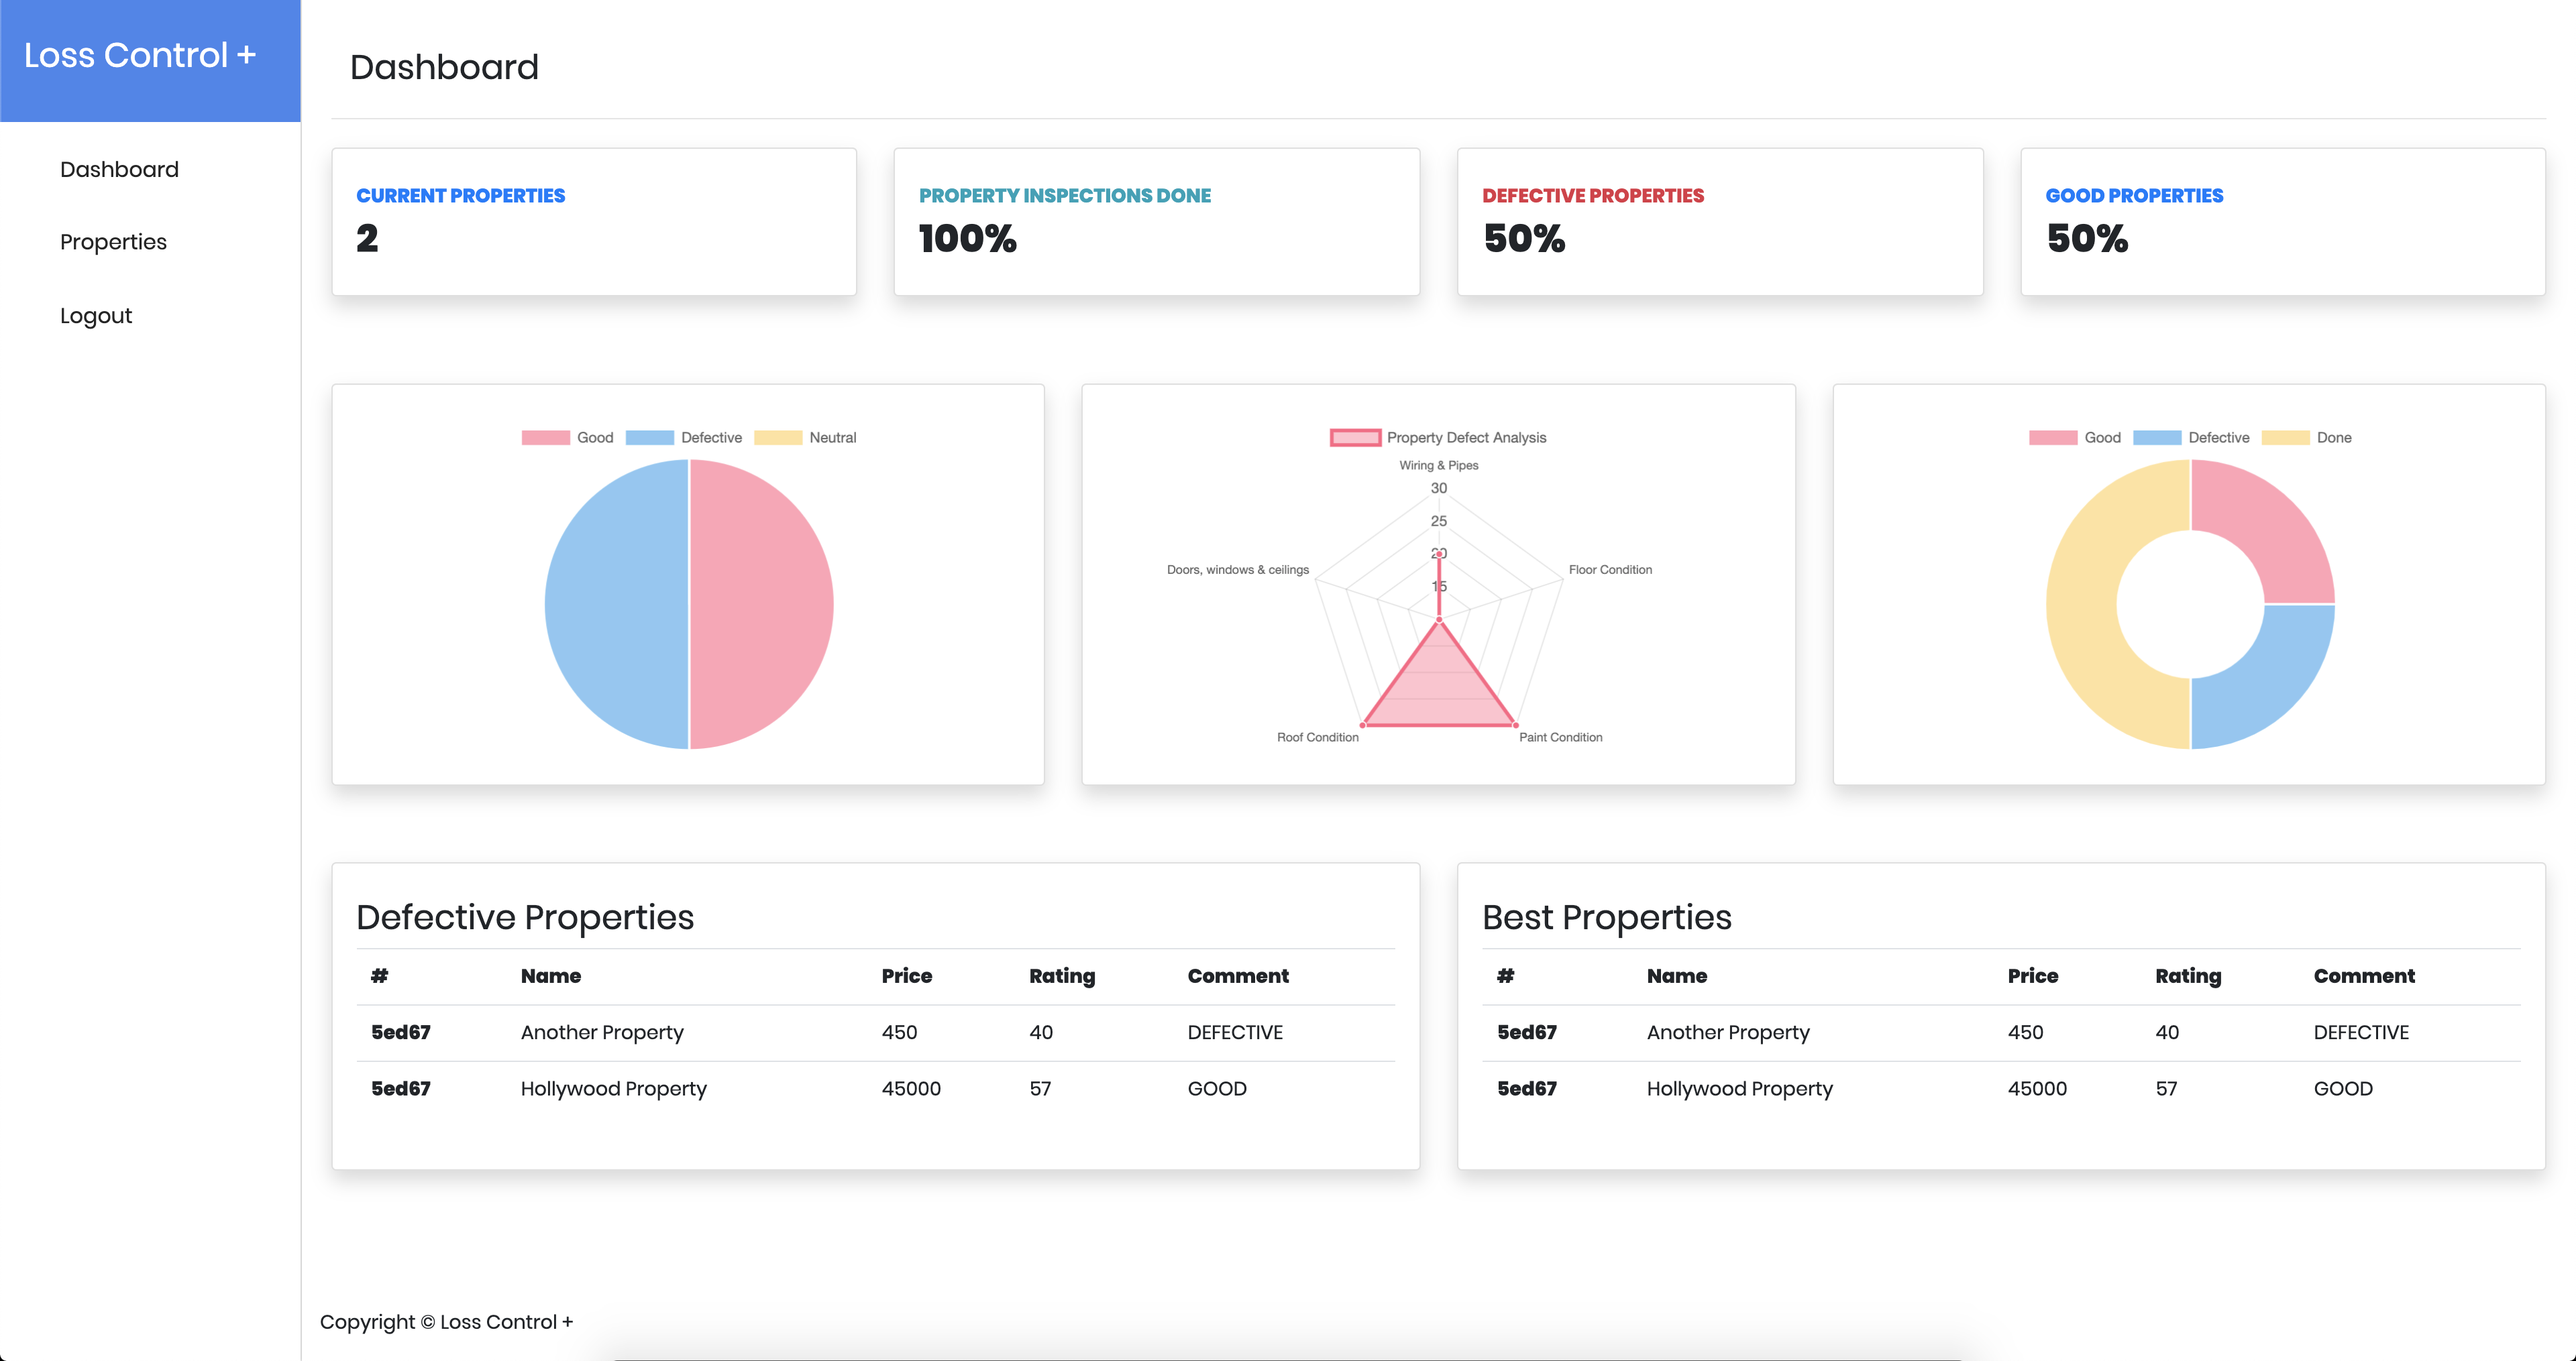
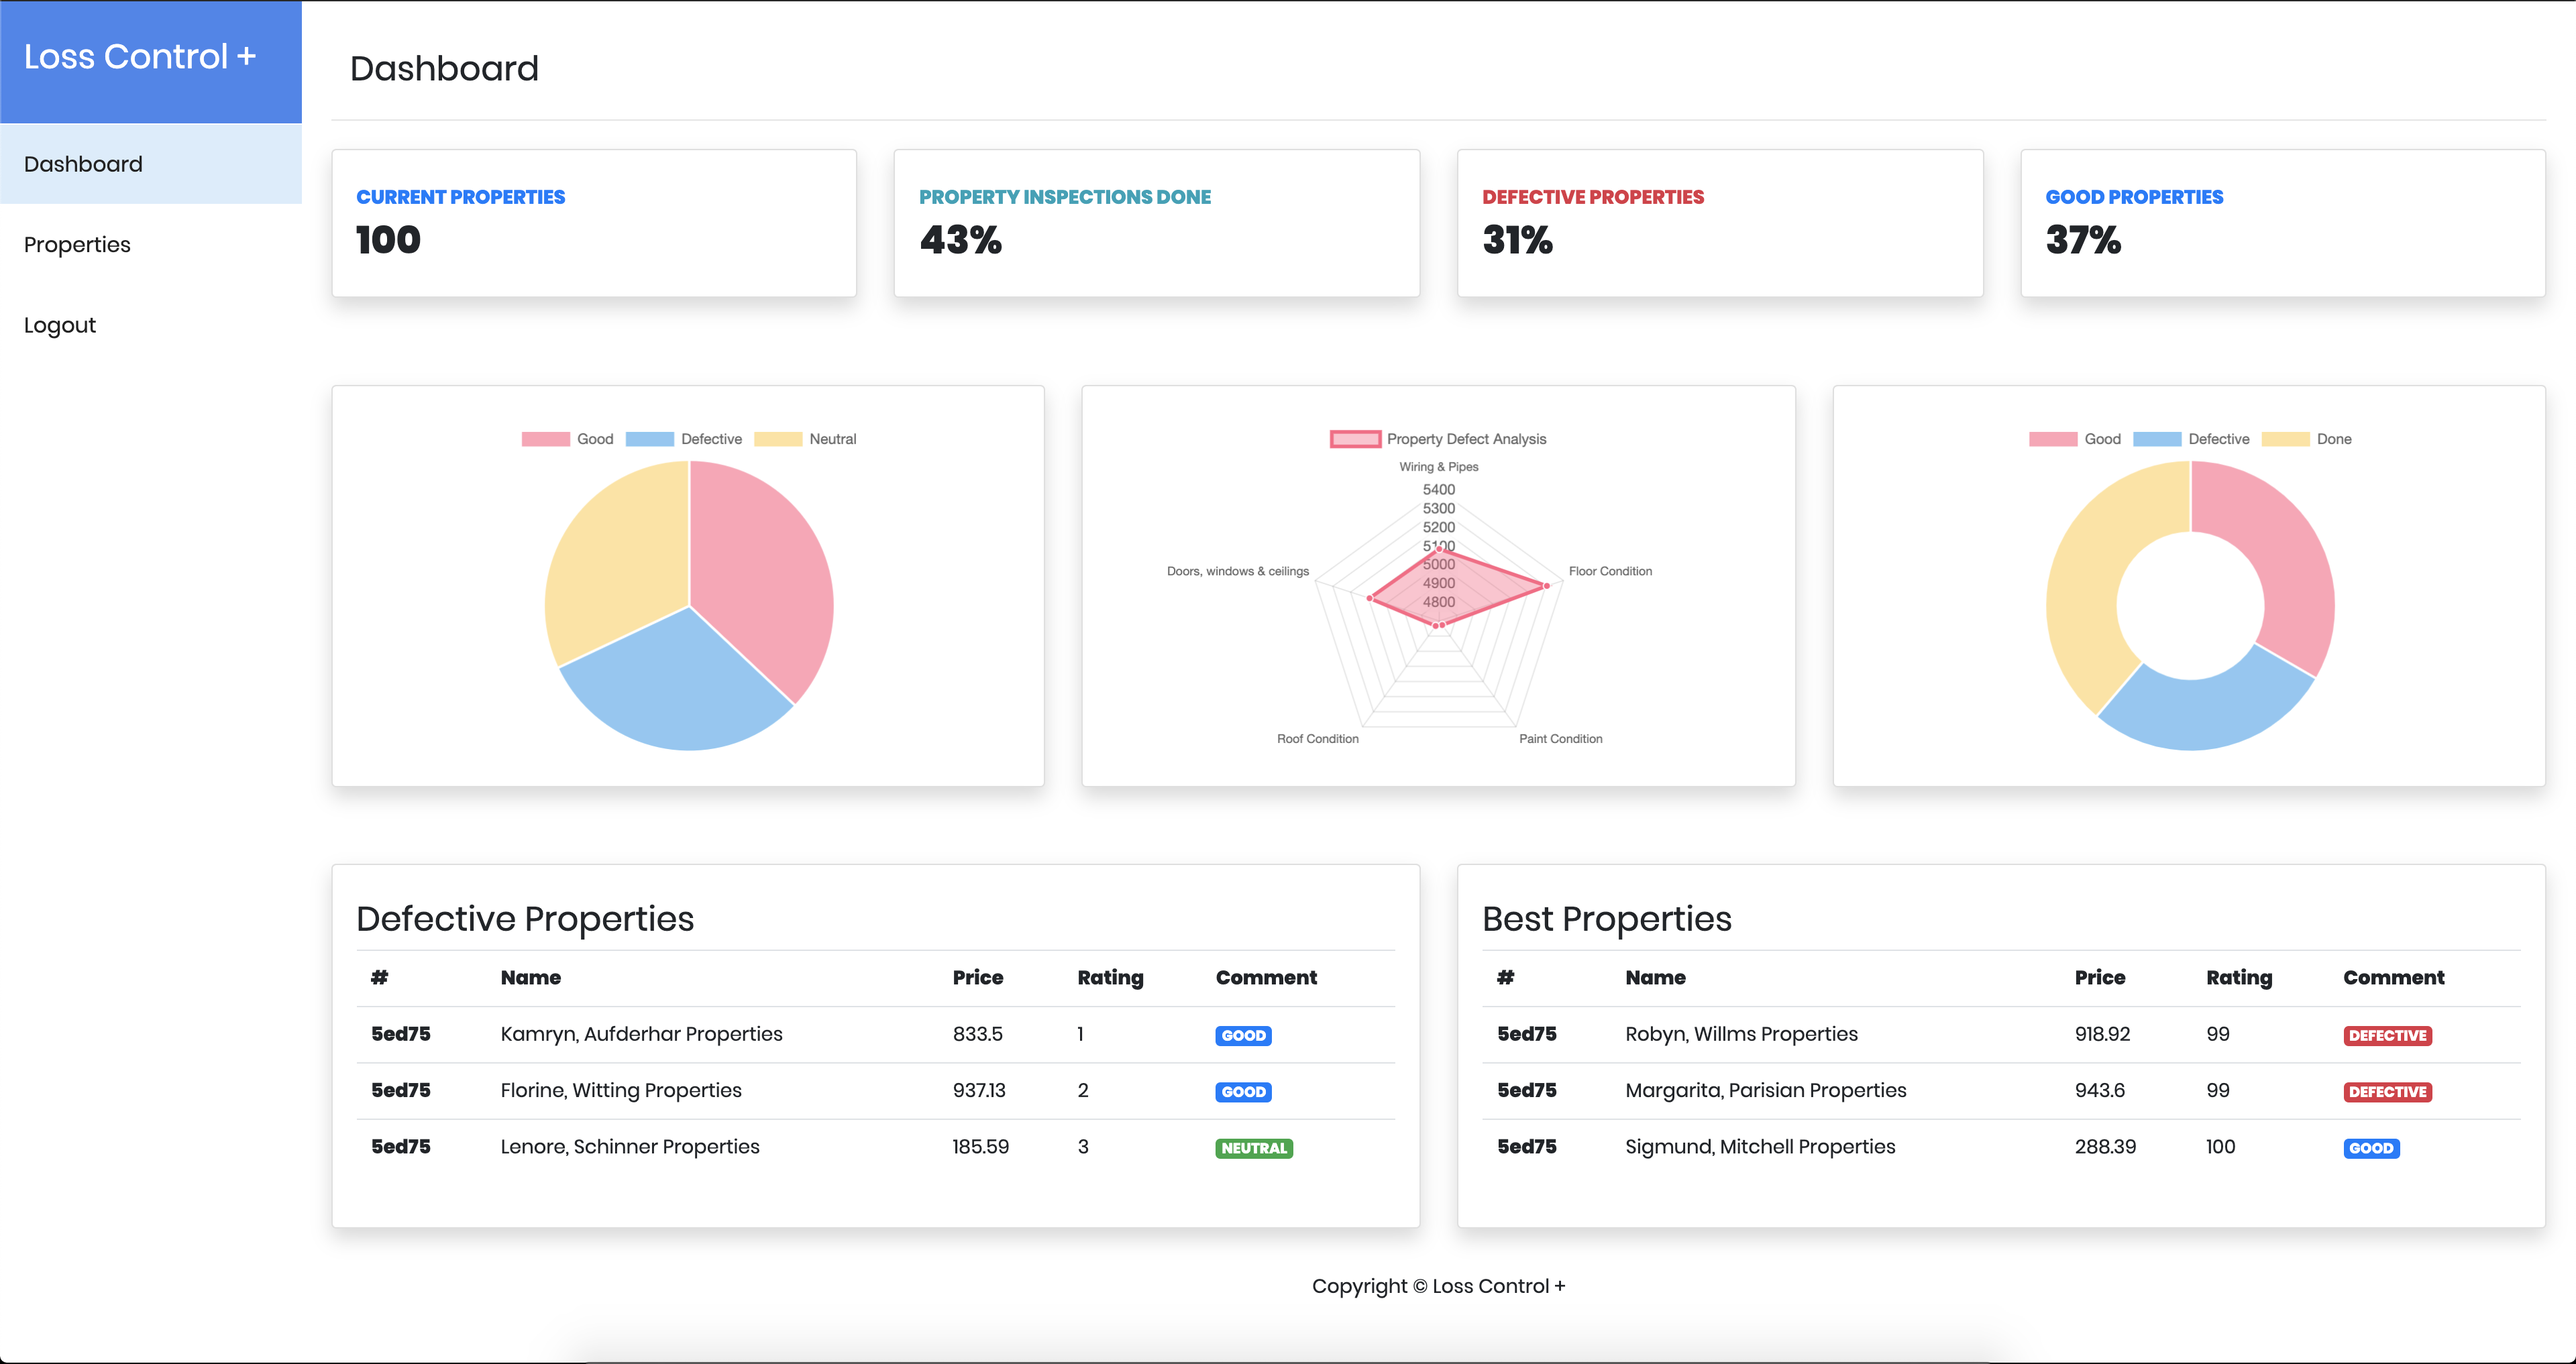
fix(aesthetics): updated app look and feel amongst other things

diff --git a/insurance-client-app/src/app/home/components/property/property.component.html b/insurance-client-app/src/app/home/components/property/property.component.html
@@ -104,7 +104,7 @@
             <div class="col-xl-12 col-md-12 mb-3">
                 <div class="card border-left-success shadow h-100 py-2">
                     <div class="card-body table-responsive">
-                        <table class="table table-striped table-hover">
+                        <table [mfData]="properties" #mf="mfDataTable" [mfRowsOnPage]="10" class="table table-striped table-hover">
                             <thead>
                               <tr>
                                 <th scope="col">#</th>
@@ -114,26 +114,46 @@
                                 <th scope="col">Contact</th>
                                 <th scope="col">Inspected</th>
                                 <th scope="col">Created At</th>
-                                <th scope="col">Rating</th>
+                                <th scope="col">
+                                    <mfDefaultSorter by="rating">Rating</mfDefaultSorter>
+                                </th>
                                 <th scope="col">Comment</th>
                               </tr>
                             </thead>
                             <tbody>
-                              <tr *ngFor="let property of properties">
+                              <tr *ngFor="let property of mf.data">
                                 <th scope="row">{{property._id.substring(0, 5)}}</th>
                                 <td>{{property.name}}</td>
                                 <td>$ {{property.price}}</td>
                                 <td>{{property.address}}</td>
                                 <td>{{property.contact}}</td>
                                 <td>
-                                    <span class="badge badge-primary">{{property.inspected}}</span>
+                                    <span class="badge"
+                                    [ngClass]="{
+                                      'badge-primary':property.inspected === true,
+                                      'badge-default':property.inspected === false
+                                    }">{{property.inspected}}</span>
                                 </td>
                                 <td>June 3rd 2020</td>
                                 <td>{{property.rating}}</td>
-                                <td>{{property.comment}}</td>
+                                <td>
+                                    <span class="badge"
+                                    [ngClass]="{
+                                      'badge-danger':property.comment === 'DEFECTIVE',
+                                      'badge-success':property.comment === 'NEUTRAL',
+                                      'badge-primary': property.comment === 'GOOD'
+                                    }">{{property.comment}}</span>
+                                </td>
                                 <td></td>
                               </tr>
                             </tbody>
+                            <tfoot>
+                                <tr>
+                                    <td colspan="4">
+                                        <mfBootstrapPaginator [rowsOnPageSet]="[5,10]"></mfBootstrapPaginator>
+                                    </td>
+                                </tr>
+                            </tfoot>
                           </table>
                     </div>
                 </div>

diff --git a/insurance-client-app/src/app/home/components/dashboard/dashboard.component.html b/insurance-client-app/src/app/home/components/dashboard/dashboard.component.html
@@ -152,7 +152,14 @@
                         <td>{{defectiveProperty.name}}</td>
                         <td>{{defectiveProperty.price}}</td>
                         <td>{{defectiveProperty.rating}}</td>
-                        <td>{{defectiveProperty.comment}}</td>
+                        <td>
+                          <span class="badge"
+                          [ngClass]="{
+                            'badge-danger':defectiveProperty.comment === 'DEFECTIVE',
+                            'badge-success':defectiveProperty.comment === 'NEUTRAL',
+                            'badge-primary': defectiveProperty.comment === 'GOOD'
+                          }">{{defectiveProperty.comment}}</span>
+                        </td>
                       </tr>
                     </tbody>
                   </table>
@@ -179,7 +186,14 @@
                         <td>{{bestProperty.name}}</td>
                         <td>{{bestProperty.price}}</td>
                         <td>{{bestProperty.rating}}</td>
-                        <td>{{bestProperty.comment}}</td>
+                        <td>
+                          <span class="badge"
+                          [ngClass]="{
+                            'badge-danger':bestProperty.comment === 'DEFECTIVE',
+                            'badge-success':bestProperty.comment === 'NEUTRAL',
+                            'badge-primary': bestProperty.comment === 'GOOD'
+                          }">{{bestProperty.comment}}</span>
+                        </td>
                       </tr>
                     </tbody>
                   </table>

diff --git a/insurance-client-app/src/app/core/components/sidebar/sidebar.component.scss b/insurance-client-app/src/app/core/components/sidebar/sidebar.component.scss
@@ -1,38 +1,49 @@
 #sidebar {
     min-width: 250px;
     max-width: 250px;
-    min-height: 150vh;
+    min-height: 100vh;
     background-color: #fff;
     color: #252525;
-    border-right: 1px solid #d7d7d7;
+    // border-right: 1px solid #d7d7d7;
+    
 
     .sidebar-header {
         padding: 30px 20px;
         background: #4885ed;
         color: #fff;
+        border-bottom: 1px solid #fff;
     }
 
     ul {
         list-style-type: none;
 
         li {
-            margin: 15px 0;
+            margin: 0;
+            width: 100%;
+            padding: 10px;
+            color: #222;
+            outline: none;
+            border-bottom: 1px solid #fff;
+
             a {
                 padding: 10px;
                 font-size: 1.1em;
                 display: block;
-                
-                &:hover {
-                    color: #fff;
-                    background: #7386D5;
-                    margin-right: 15px;
-                    cursor: pointer;
-                }
+                color: #222;
+            
             }
 
-            &.active > a, a[aria-expanded="true"] {
-                color: #fff;
-                background: #6d7fcc;
+            // &.active > a, a[aria-expanded="true"] {
+            //     color: #fff;
+            //     background: #8cc7f4;
+            // }
+
+            &:hover, &.is-active, &:focus {
+                background: #8cc7f452;
+                margin-right: 15px;
+                cursor: pointer;
+                border: none;
+                border-bottom: 1px solid #fff;
             }
         }
     }

diff --git a/insurance-client-app/src/app/core/components/sidebar/sidebar.component.html b/insurance-client-app/src/app/core/components/sidebar/sidebar.component.html
@@ -3,15 +3,26 @@
         <h3>Loss Control +</h3>
     </div>
 
-    <ul class="list-unstyled-components mt-3">
-        <li [routerLink]="[{ outlets: { sidebar: ['dashboard']}}]">
+    <!-- <ul class="list-unstyled-components mt-3">
+        <li [routerLink]="[{ outlets: { sidebar: ['dashboard']}}]" [routerLinkActive]="['is-active']">
             <a>Dashboard</a>
         </li>
-        <li [routerLink]="[{ outlets: { sidebar: ['property'] }}]">
+        <li [routerLink]="[{ outlets: { sidebar: ['property'] }}]"  [routerLinkActive]="['is-active']">
             <a>Properties</a>
         </li>
         <li (click)="logout()">
             <a>Logout</a>
         </li>
-    </ul>
+    </ul> -->
+    <ul class="nav flex-column">
+        <li class="nav-item" [routerLink]="[{ outlets: { sidebar: ['dashboard']}}]" [routerLinkActive]="['is-active']">
+          <a class="nav-link active">Dashboard</a>
+        </li>
+        <li class="nav-item" [routerLink]="[{ outlets: { sidebar: ['property'] }}]"  [routerLinkActive]="['is-active']">
+          <a class="nav-link">Properties</a>
+        </li>
+        <li class="nav-item" (click)="logout()">
+          <a class="nav-link disabled" tabindex="-1" aria-disabled="true">Logout</a>
+        </li>
+      </ul>
 </nav>

diff --git a/insurance-client-app/src/app/home/home.module.ts b/insurance-client-app/src/app/home/home.module.ts
@@ -2,6 +2,7 @@ import { NgModule } from '@angular/core';
 import { CommonModule } from '@angular/common';
 import { RouterModule } from '@angular/router';
 import { ChartsModule } from 'ng2-charts';
+import { DataTableModule } from 'angular-6-datatable';
 
 import { HomeRoutingModule } from './home-routing.module';
 import { HomeComponent } from './components/home/home.component';
@@ -19,7 +20,8 @@ import { ReactiveFormsModule, FormsModule } from '@angular/forms';
     CoreModule,
     ChartsModule,
     ReactiveFormsModule,
-    FormsModule
+    FormsModule,
+    DataTableModule
   ]
 })
 export class HomeModule {}

diff --git a/insurance-client-app/src/app/home/home-routing.module.ts b/insurance-client-app/src/app/home/home-routing.module.ts
@@ -9,6 +9,7 @@ const routes: Routes = [
     path: 'home',
     component: HomeComponent,
     children: [
+      { path: '', component: DashboardComponent, outlet: 'sidebar' },
       { path: 'dashboard', component: DashboardComponent, outlet: 'sidebar' },
       { path: 'property', component: PropertyComponent, outlet: 'sidebar' }
     ]

diff --git a/insurance-client-app/src/app/app-routing.module.ts b/insurance-client-app/src/app/app-routing.module.ts
@@ -15,10 +15,6 @@ const routes: Routes = [
     path: 'authentication',
     loadChildren: () => import('./auth/auth.module').then((m) => m.AuthModule)
   }
-  // {
-  //   path: 'core',
-  //   loadChildren: () => import('./core/core.module').then((m) => m.CoreModule)
-  // }
 ];
 
 @NgModule({

diff --git a/insurance-client-app/src/app/core/components/footer/footer.component.scss b/insurance-client-app/src/app/core/components/footer/footer.component.scss
@@ -1,4 +1,3 @@
 footer {
-    position: absolute;
-    bottom: 20px;
+    margin: 20px 0;
 }

diff --git a/insurance-client-app/src/app/home/components/property/property.component.scss b/insurance-client-app/src/app/home/components/property/property.component.scss
@@ -1,0 +1,4 @@
+.high-pill {
+    background-color: red;
+    color: #fff;
+}

diff --git a/DOCUMENTATION.md b/DOCUMENTATION.md
@@ -49,12 +49,32 @@ From the root directory:
 
 #### Backend and Frontend
 * Clone repository and from the root directory;
-* Install dependencies using: `cd insurance-client-app` 
+* Install dependencies using: `cd insurance-client-app && npm install` 
 * To run the web application: `ng serve`
-* Install dependencies using: `cd insurance-server` 
+* Install dependencies using: `cd insurance-server && npm install` 
+
+If you want to have HMR during development:
+
 * To use Hot Module Replacement: `npm run webpack` 
-* And in another terminal run `npm run start` to run the server (_you must have run the previous command at least once for this step to work_).
+* And in another terminal run `npm run dev` to run the server (_you must have run the previous command at least once for this step to work_).
+
+And if you don't want to have HMR:
+
+* `npm run start`
+
 * Web app will be accessible in the browser at: [localhost:4200](http://localhost:4200)
+* Server will be running on port [7001]()
+
+#### Docker
+```
+docker-compose up
+```
+
+For development, the `insurance-server/` and `insurance-client-app/` directories have their own docker containers, which are configured via the `docker-compose.yml` file.
+
+The webapp is spun up at `localhost:4200`
+
+The local directories are mounted into the containers, so changes will reflect immediately. However, changes to package.json will likely need to a rebuild: `docker-compose down && docker-compose build && docker-compose up`.
 
 
 ## Difficulties
